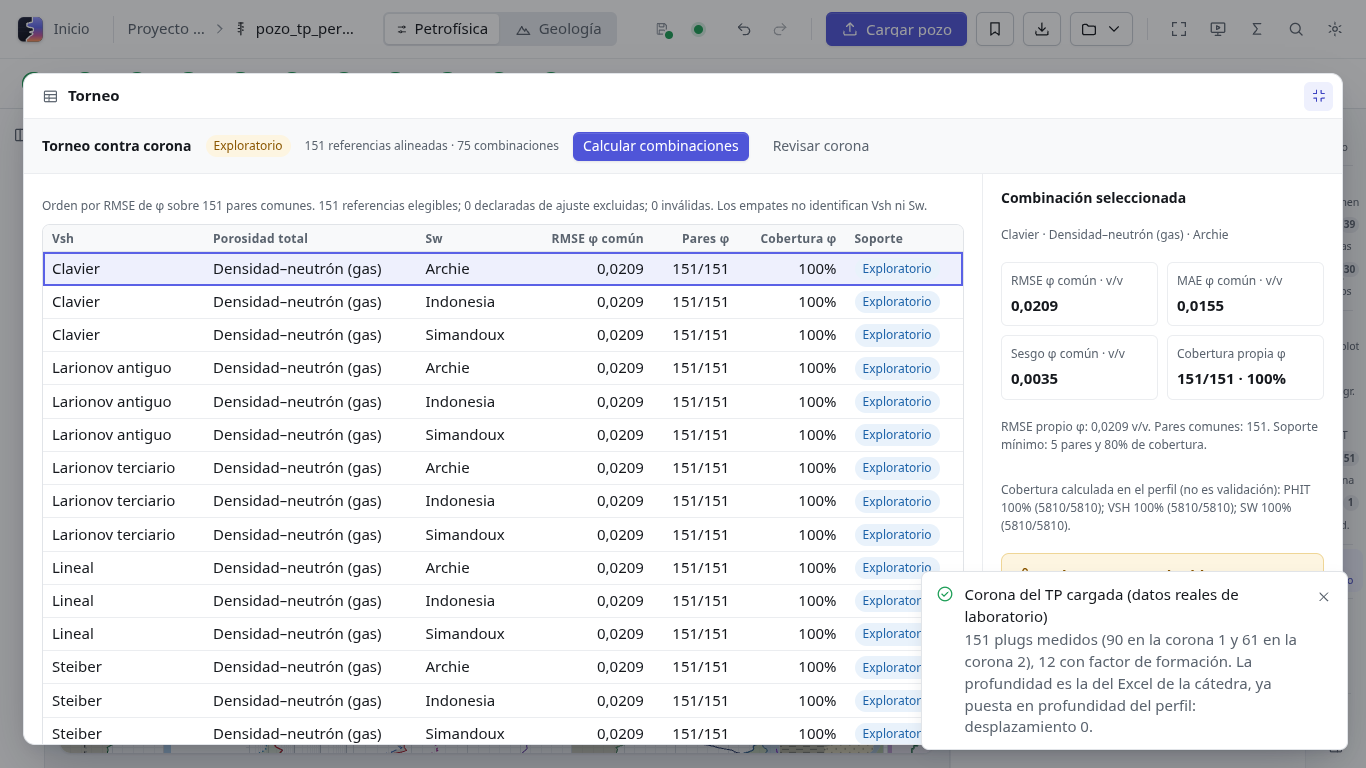
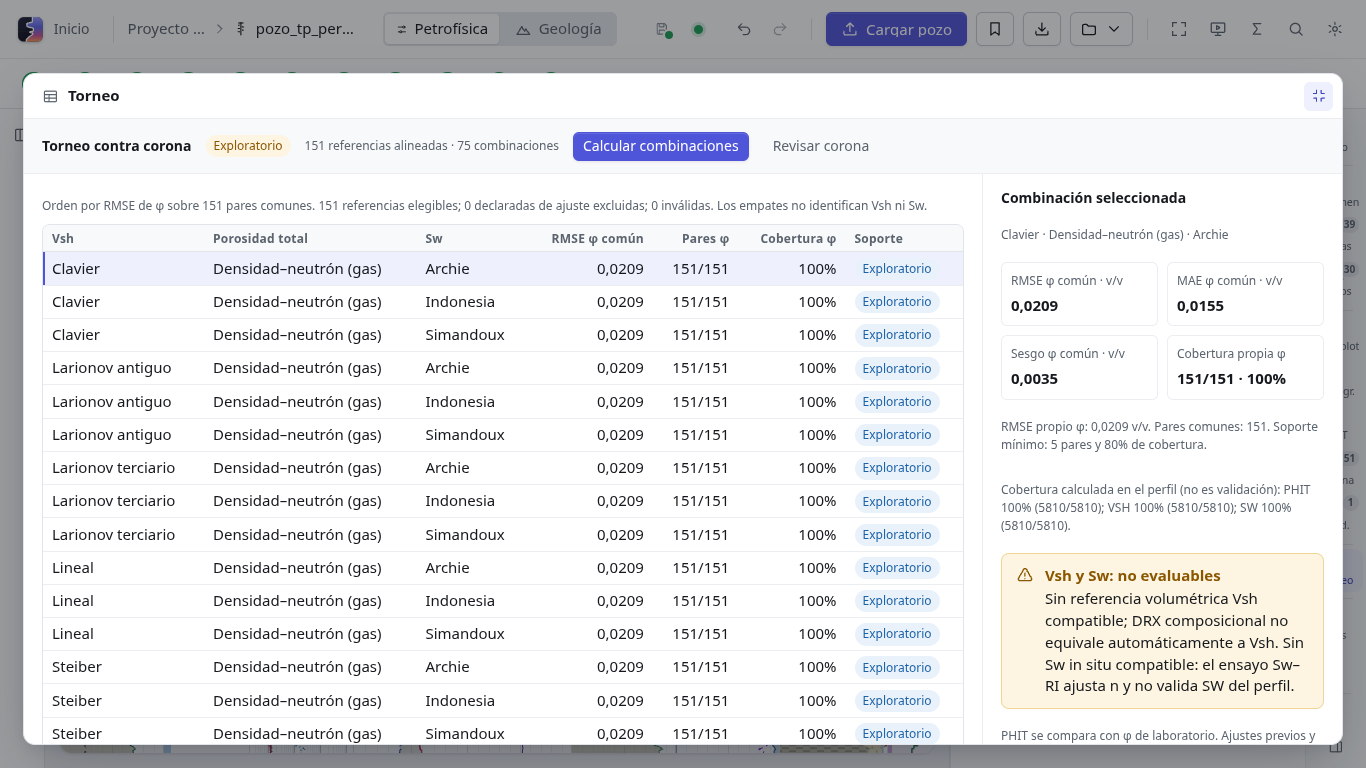
Documenta validación final y límites de F22

diff --git a/docs/decisiones/0078-torneo-modelos-corona.md b/docs/decisiones/0078-torneo-modelos-corona.md
@@ -28,8 +28,4 @@ Casos sintéticos de métricas conocidas, faltantes, soporte, empate, exclusión
 
 ## Ajuste de ejecución tras primer recorrido
 
-El primer HTML mantuvo el worker ocupado más de 15 segundos: ejecutar 75 cadenas completas incluye consumidores ajenos al torneo. Se añade al motor una selección opcional de módulos objetivo que recorta **solo la ejecución** a la clausura de dependencias del plan completo ya resuelto. No se reconstruye un registro reducido ni se cambian defaults/fuentes. El torneo solicita Vsh, PHIT y el Sw candidato; todas sus dependencias efectivas se mantienen. La interpretación aplicable sigue siendo la completa original con los métodos elegidos; esta opción no se persiste como decisión científica ni cambia el motor habitual. Verificar equivalencia con ejecución completa y ausencia de ejecución de consumidores ajenos. La revisión independiente y el recorrido final deben verificar esta optimización antes de atribuir rendimiento.
-
-### Refinamiento de ejecución tras recorrido
-
-El torneo calcula la clausura de dependencias de VSH, PHIT y el modelo SW elegido mediante `EngineOptions.targetModuleIds`. El grafo se resuelve primero con el registro completo y todas las fuentes productivas; solo se filtra después su orden de ejecución. Así no se ejecutan consumidores ajenos costosos ni se alteran defaults por reducir el registro. Se reutiliza un motor con caché por modelo Sw. La interpretación aplicada sigue siendo la original del candidato, sin restricciones de ejecución. Pruebas comparan motor completo y subgrafo con fuente PHIE explícita y secuencia de candidatos A/B/A.
+El primer HTML mantuvo el worker ocupado más de 15 segundos: ejecutar 75 cadenas completas incluye consumidores ajenos al torneo. Se añade al motor una selección opcional de módulos objetivo que recorta **solo la ejecución** a la clausura de dependencias del plan completo ya resuelto. No se reconstruye un registro reducido ni se cambian defaults/fuentes. El torneo solicita Vsh, PHIT y el Sw candidato; todas sus dependencias efectivas se mantienen. La interpretación aplicable sigue siendo la completa original con los métodos elegidos; esta opción no se persiste como decisión científica ni cambia el motor habitual. Verificar equivalencia con ejecución completa y ausencia de ejecución de consumidores ajenos. La revisión independiente y el recorrido final deben verificar esta optimización antes de atribuir rendimiento. Se reutilizan tres motores con caché, uno por modelo Sw. Se contrastan ejecución completa y selectiva con PHIE explícita y secuencia de candidatos A/B/A.

diff --git a/docs/validacion/2026-11-17-f22.md b/docs/validacion/2026-11-17-f22.md
@@ -25,3 +25,15 @@ F22 permanece en revisión. El PR debe quedar en borrador mientras falte la aper
 HTML único construido en 1,99 s, 8.472,34 kB. Recorrido HTTP sin red tras cargar: 75 combinaciones del TP en 2.182 ms (medición de pared del guion), 151/151 pares comunes y propios. La fila seleccionada por el guion —Clavier, densidad–neutrón gas, Archie— muestra RMSE φ 0,0209 v/v, MAE 0,0155 y sesgo 0,0035. Es una selección explícita para probar aplicación, no una ganadora integral ni una prueba de gas. PHIT/VSH/SW calculadas con 5.810/5.810 muestras físicas válidas; esas coberturas no son validación de Sw/Vsh. Aplicar y guardar snapshot, rechazo de contexto anterior y deshacer se completaron sin red y sin errores de página. Capturas claro/oscuro en `docs/capturas/torneo/` a 1366×768.
 
 El entorno perdió conexión al iniciar typecheck/suite final y volvió con los cambios preservados. El log temporal no estuvo disponible: esa ejecución no se acredita. Se reiniciaron typecheck y suite completa, con log fuera de `/tmp` y navegador cerrado.
+
+## Verificaciones finales
+
+- `npm run typecheck`: aprobado en la repetición tras recuperar el entorno.
+- `npm test -- --maxWorkers=1 --testTimeout=30000`: **3775/3775 tests, 236/236 archivos**, 213,22 s. Ejecución completa con navegador cerrado; controles de rendimiento aprobados sin cambiar umbrales. La ejecución interrumpida anterior no se cuenta.
+- `npm run build`: aprobado, 2,04 s; único `dist/index.html`, 8.472,34 kB, mismo bundle `index-CsFwCxsV` que el recorrido posterior a optimización. No cambió código desde la suite.
+- Revisión independiente: aprobada; hallazgos corregidos y verificados, con límites detallados en la evidencia específica.
+- `git diff --check`: aprobado.
+
+PR propio [#91](https://github.com/lgarciav1/interpretaci-n-pozo/pull/91), en borrador: pendiente obligatorio de apertura local file:// sin internet. No se integra ni marca F22 hecha. Los límites históricos de F20 permanecen en [cadena](2026-11-17-cadena.md).
+
+Repetición final limpia después de terminar la suite, sin benchmarks ni otros runners: `QA_URL=http://127.0.0.1:4173 node scripts/qa/torneo.cjs` aprobó en el mismo HTML, tabla en **1.172 ms**, aplicación/snapshot y deshacer sin red, sin errores de página. Se cerraron avisos para capturar tabla y límites en ambos temas (cuatro PNG a 1366×768). Repetir `node scripts/qa/torneo.cjs` sobre el HTML final volvió a producir `net::ERR_BLOCKED_BY_ADMINISTRATOR`; el pendiente file:// se mantiene.

diff --git a/docs/masterplan-funciones-nuevas.md b/docs/masterplan-funciones-nuevas.md
@@ -51,7 +51,7 @@ Tamaño: **C** chico (una sesión corta), **M** mediano (una sesión), **G** gra
 | F07 | Vistas guardadas y modo defensa | 2 | M | arquitecto | — | hecha ([0075](decisiones/0075-vistas-guardadas.md)) |
 | F05 | Notas ancladas a profundidad | 2 | M | desarrollador-ui | — | hecha ([0076](decisiones/0076-notas-profundidad.md), [PR #89](https://github.com/lgarciav1/interpretaci-n-pozo/pull/89)); apertura file:// pendiente, integración autorizada con esa limitación |
 | F20 | Reparar la densidad en los derrumbes | 3 | G | analista-numerico | — | hecha ([0077](decisiones/0077-reconstruccion-densidad.md), [PR #90](https://github.com/lgarciav1/interpretaci-n-pozo/pull/90)); integración autorizada expresamente con apertura file:// pendiente |
-| F22 | Torneo de modelos contra la corona | 3 | G | analista-numerico | [0078](decisiones/0078-torneo-modelos-corona.md) | en revisión; apertura file:// pendiente |
+| F22 | Torneo de modelos contra la corona | 3 | G | analista-numerico | [0078](decisiones/0078-torneo-modelos-corona.md) | [en revisión, PR #91](https://github.com/lgarciav1/interpretaci-n-pozo/pull/91); apertura file:// pendiente |
 | F21 | Saturación por altura (MDT + SCAL + perfil) | 3 | M | analista-numerico | — | pendiente |
 | F14 | Entrenador: pozo con respuesta conocida | 3 | M | analista-numerico | — | pendiente |
 | F17 | Lupa sobre el perfil | 4 | M | arquitecto | — | pendiente |
